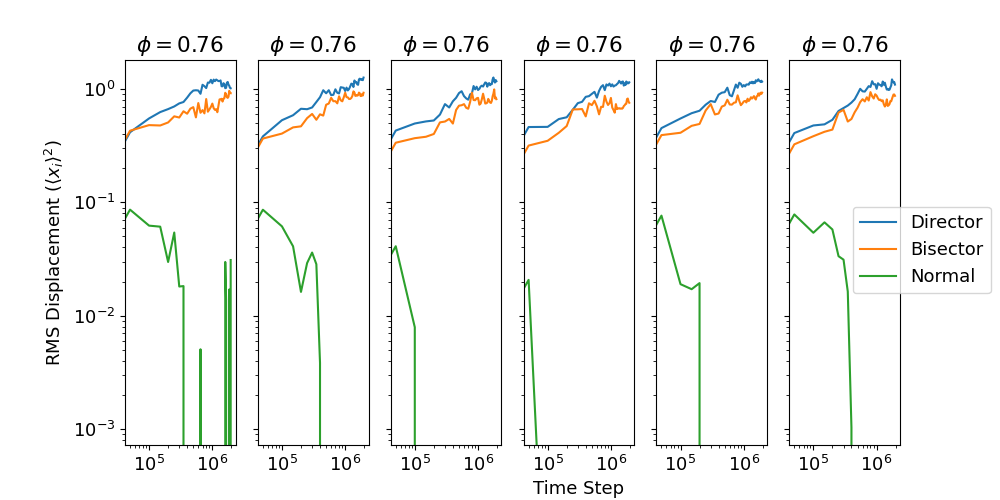
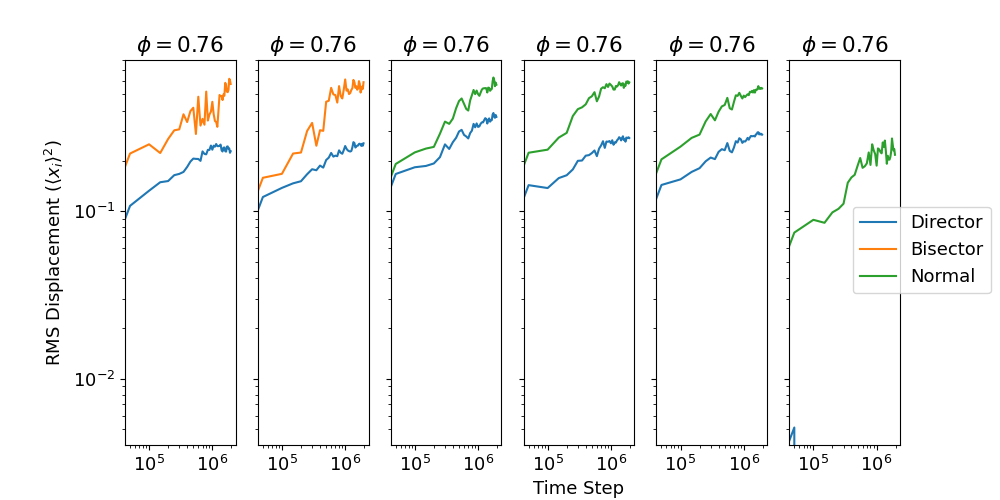
biaxial vector extraction

diff --git a/Phase_Structure/Nunchucks/Fixed_Angle/2_bend_165_deg_oblong/Longer_equillibrium/biaxial_diffusion.py b/Phase_Structure/Nunchucks/Fixed_Angle/2_bend_165_deg_oblong/Longer_equillibrium/biaxial_diffusion.py
@@ -1,7 +1,7 @@
 """Calculates the diffusion coefficient over each equillibration run. 
 Accounts for additional displacement when crossing the periodic boundary conditions
 
-This file is adapted for no contraction periods, and biaxial phase structure"""
+This file is adapted for biaxial phase structure"""
 
 import numpy as np
 import matplotlib.pyplot as plt
@@ -81,12 +81,14 @@ print(
 
 # GENERATE LIST OF TIME STEPS TO SAMPLE
 
-sampling_times = np.zeros(len(mix_steps_values) + 1)
+sampling_times = np.zeros((len(mix_steps_values), 2))
 # Gives start and end times for each equillibrium run
 time_counter = 0
 for i in range(len(mix_steps_values)):
+    time_counter += mix_steps_values[i]
+    sampling_times[i, 0] = time_counter
     time_counter += equilibrium_time
-    sampling_times[i + 1] = time_counter
+    sampling_times[i, 1] = time_counter
 print("Sampling Times: " + str(sampling_times))
 
 assert time_counter == run_time, "Unexpected result in sampling times"
@@ -160,7 +162,7 @@ def nematic_director(data, method="director"):
     for i, j in np.ndindex(M_matrix.shape):
         M_matrix[i, j] = np.sum(norm_vectors[:, i] * norm_vectors[:, j]) / N_molecules
     M_eigen_val, M_eigen_vec = np.linalg.eig(M_matrix)
-    print(str(method) + str(np.linalg.eig(M_matrix)))
+    # print(str(method) + str(np.linalg.eig(M_matrix)))
     director_index = np.argmax(M_eigen_val)  # does this work for bisector too?
     return M_eigen_vec[director_index, :]
 
@@ -285,18 +287,33 @@ for i, time in enumerate(time_range):  # interate over dump files
             com_positions, previous_positions, box_dimensions
         )
 
+    if equilibrium_flag:  # MEASURE ONGOING RMS DISPLACEMENT
+        rms_disp_values[run_num, i - run_origin, :] = rms_displacement(
+            com_positions + extra_displacement,  # takes current values
+            initial_sample,  # reset for each eq run
+            use_vector=DIRECTIONAL_COEFF,
+        )
+
     if time in sampling_times:  # MEASURE SAMPLING POINTS
         print("T = " + str(time) + "/" + str(run_time))
-        sample_index = np.where(sampling_times == time)
 
-        if time != 0:  # RUN ENDING ROUTINE FIRST
-            if True:  # USE_SYS_BASIS:
+        where_output = np.where(sampling_times == time)
+        indices = (where_output[0][0], where_output[1][0])
+        if indices[1] == 0:  # start of sampling period
+            initial_sample = com_positions
+            sampled_vol_values[indices[0]] = box_volume
+
+            extra_displacement = np.zeros_like(com_positions)  # reset for each sample
+
+            run_origin = i  # so ongoing measurement starts from zero each time
+            equilibrium_flag = True
+        else:  # end of sampling period
+            if USE_SYS_BASIS:
                 # evaluate system basis at end of each sample
-                # print(int(sample_index[0]))
-                director_vectors[sample_index[0] - 1] = nematic_director(
+                director_vectors[indices[0]] = basic_director(
                     rod_positions, method="director"
                 )
-                bisector_vectors[sample_index[0] - 1] = nematic_director(
+                bisector_vectors[indices[0]] = basic_director(
                     rod_positions, method="bisector"
                 )
 
@@ -306,24 +323,11 @@ for i, time in enumerate(time_range):  # interate over dump files
                 initial_sample,
                 use_vector=DIRECTIONAL_COEFF,
             )  # initial sample taken from previous iteration in if clause
-            sampled_D_values[sample_index, :] = sampled_rms / (6 * equilibrium_time)
+            sampled_D_values[indices[0], :] = sampled_rms / (6 * equilibrium_time)
             # D value for i-th equillibration period
+
             run_num += 1
-
-        if time != run_time:  # RUN STARTING ROUTINE FOR SAMPLING
-            initial_sample = com_positions
-            sampled_vol_values[sample_index] = box_volume
-
-            extra_displacement = np.zeros_like(com_positions)  # reset for each sample
-
-            run_origin = i  # gives time index for the start of each run
-
-    # MEASURE ONGOING RMS DISPLACEMENT
-    rms_disp_values[run_num, i - run_origin, :] = rms_displacement(
-        com_positions + extra_displacement,  # takes current values
-        initial_sample,  # reset for each eq run
-        use_vector=DIRECTIONAL_COEFF,
-    )
+            equilibrium_flag = False
 
     previous_positions = com_positions
 
@@ -333,8 +337,8 @@ if not DIRECTIONAL_COEFF:
 
 if DIRECTIONAL_COEFF:  # Only relevant in vector implementation
     if USE_SYS_BASIS:
-        print(director_vectors)
-        print(bisector_vectors)
+        # print(director_vectors)
+        # print(bisector_vectors)
         normal_vectors = np.cross(director_vectors, bisector_vectors)
         vec_basis = np.transpose(
             np.dstack((director_vectors, bisector_vectors, normal_vectors))
@@ -400,7 +404,7 @@ for plot_index, data_index in enumerate(plot_list):
 axs[int(len(plot_list) / 2)].set_xlabel("Time Step")  # use median of plot_list
 axs[0].set_ylabel(r"RMS Displacement ($\langle x_{i}\rangle^{2}$)")
 fig.legend(loc="center right")
-plt.savefig("rms_displacement_runwise_bf_cf.png")
+# plt.savefig("rms_displacement_runwise_bf_cf.png")
 plt.show()
 
 print("Mean Director: " + str(np.mean(director_vectors, axis=0)))
